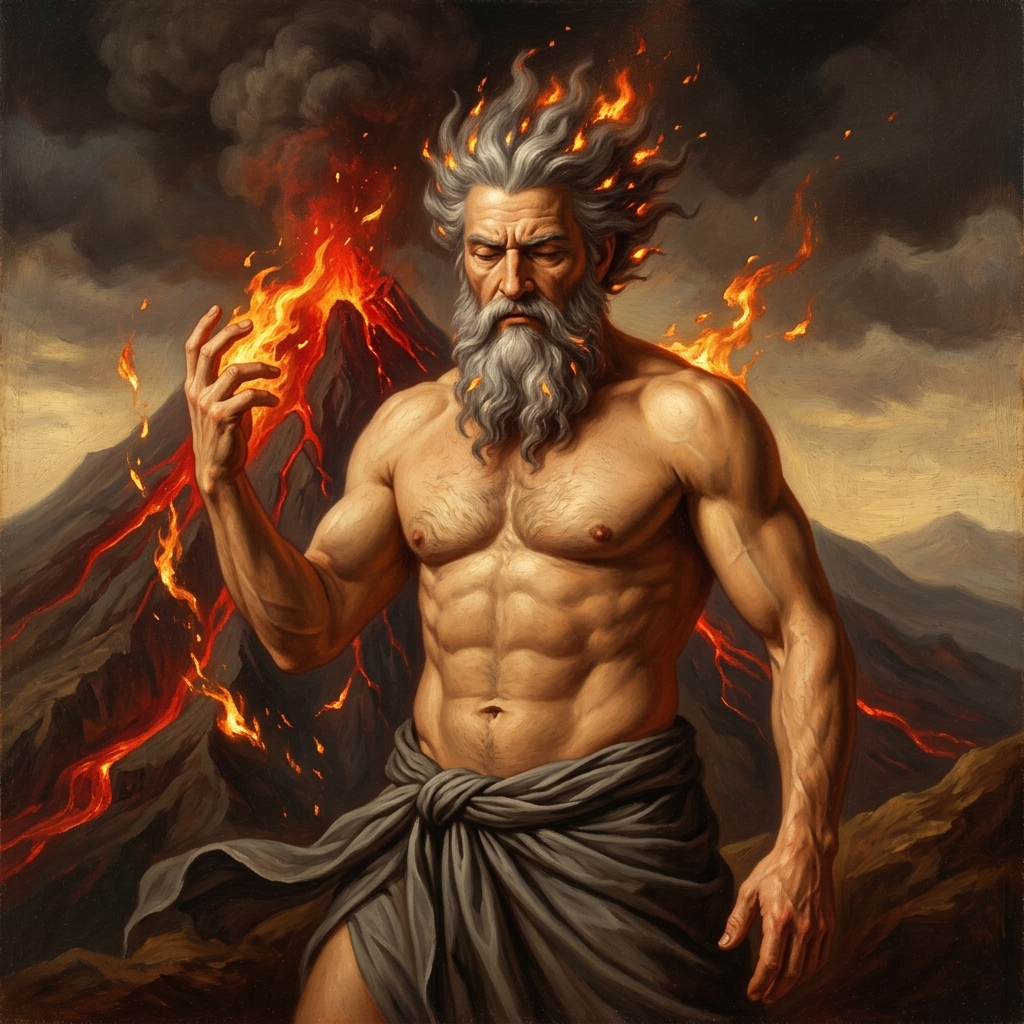
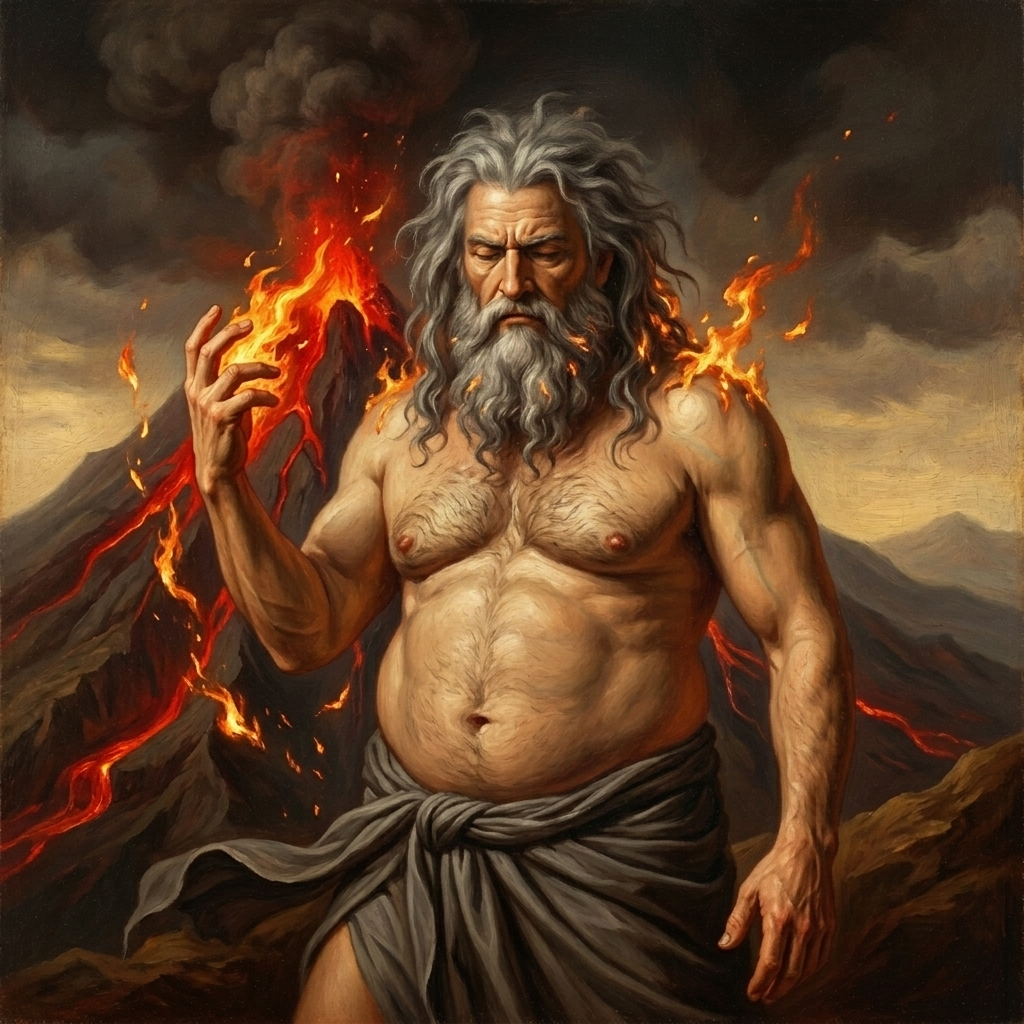
docs: finalize Pyrakos concept art as an elderly rugged fire god with a soft belly

Changed region(s): [[0.2812, 0.0, 0.8125, 0.8438]]

diff --git a/docs/world/lore.md b/docs/world/lore.md
@@ -28,7 +28,7 @@ Eskalacja konfliktu między bogami (Pyrakos, Gaya, Nerea, Anemos) doprowadziła 
 *Stworzyciel rasy Ludzi. Reprezentuje ambicję, ekspansję, ciepło, ale i destrukcję.*
 - **Mitologia**: Złamał pakt o nieingerencji i podarował ludziom "Iskrę" (ogień). Ludzie nauczyli się go kontrolować, co szybko doprowadziło do ich dominacji technologicznej i militarnej nad innymi rasami.
 - **Relacje**: W stałym, "gorącym" sojuszu z Boginią Ziemi, Gayą.
-- **Wygląd (Kanon Wizualny)**: Pyrakos ma wygląd potężnego, starszego ludzkiego mężczyzny z długą, gęstą, szarą brodą oraz zmierzwionymi, szarymi włosami, z których wystrzeliwują płomienie i iskry. Posiada zamknięte oczy (stan letargu) i surowy, gniewny, dynamiczny wyraz twarzy. Charakteryzuje się dojrzałym, wysportowanym, lekko owłosionym torsem. Stoi w dynamicznej, agresywnej pozie, z jedną dłonią uniesioną w geście kontrolowania płomieni. Jest odziany jedynie w proste, szare zwoje tkaniny owinięte wokół pasa. W tle wznosi się potężny, gwałtownie wybuchający wulkan, a na niebie widać chmury dymu i popiołu. Całość jest przedstawiona w bezramkowym, malarskim stylu, emanując surową, niszczycielską siłą ognia.
+- **Wygląd (Kanon Wizualny)**: Pyrakos ma wygląd potężnego, starszego ludzkiego mężczyzny o sylwetce naznaczonej podeszłym wiekiem. Posiada długą, szarą brodę oraz długie, zmierzwionymi, szarymi włosami opadającymi naturalnie wokół twarzy i ramion (nie sterczącymi do góry, z delikatnymi ognistymi refleksami). Ma zamknięte oczy (stan letargu) i gniewny, dynamiczny wyraz twarzy. Jego ciało jest grubsze, z wyraźnie zarysowanym, miękkim brzuchem (brak wyrzeźbionego kaloryfera), a klatka piersiowa jest szeroka i owłosiona. Stoi w dynamicznej, agresywnej pozie z uniesioną dłonią kontrolującą ogień, odziany w proste, szare zwoje tkaniny wokół pasa. W tle wznosi się potężny, gwałtownie wybuchający wulkan. Całość ma surowy, bezramkowy, malarski charakter.
 
 ![Pyrakos, Bóg Ognia](../assets/pyrakos_fire_god.png)
 